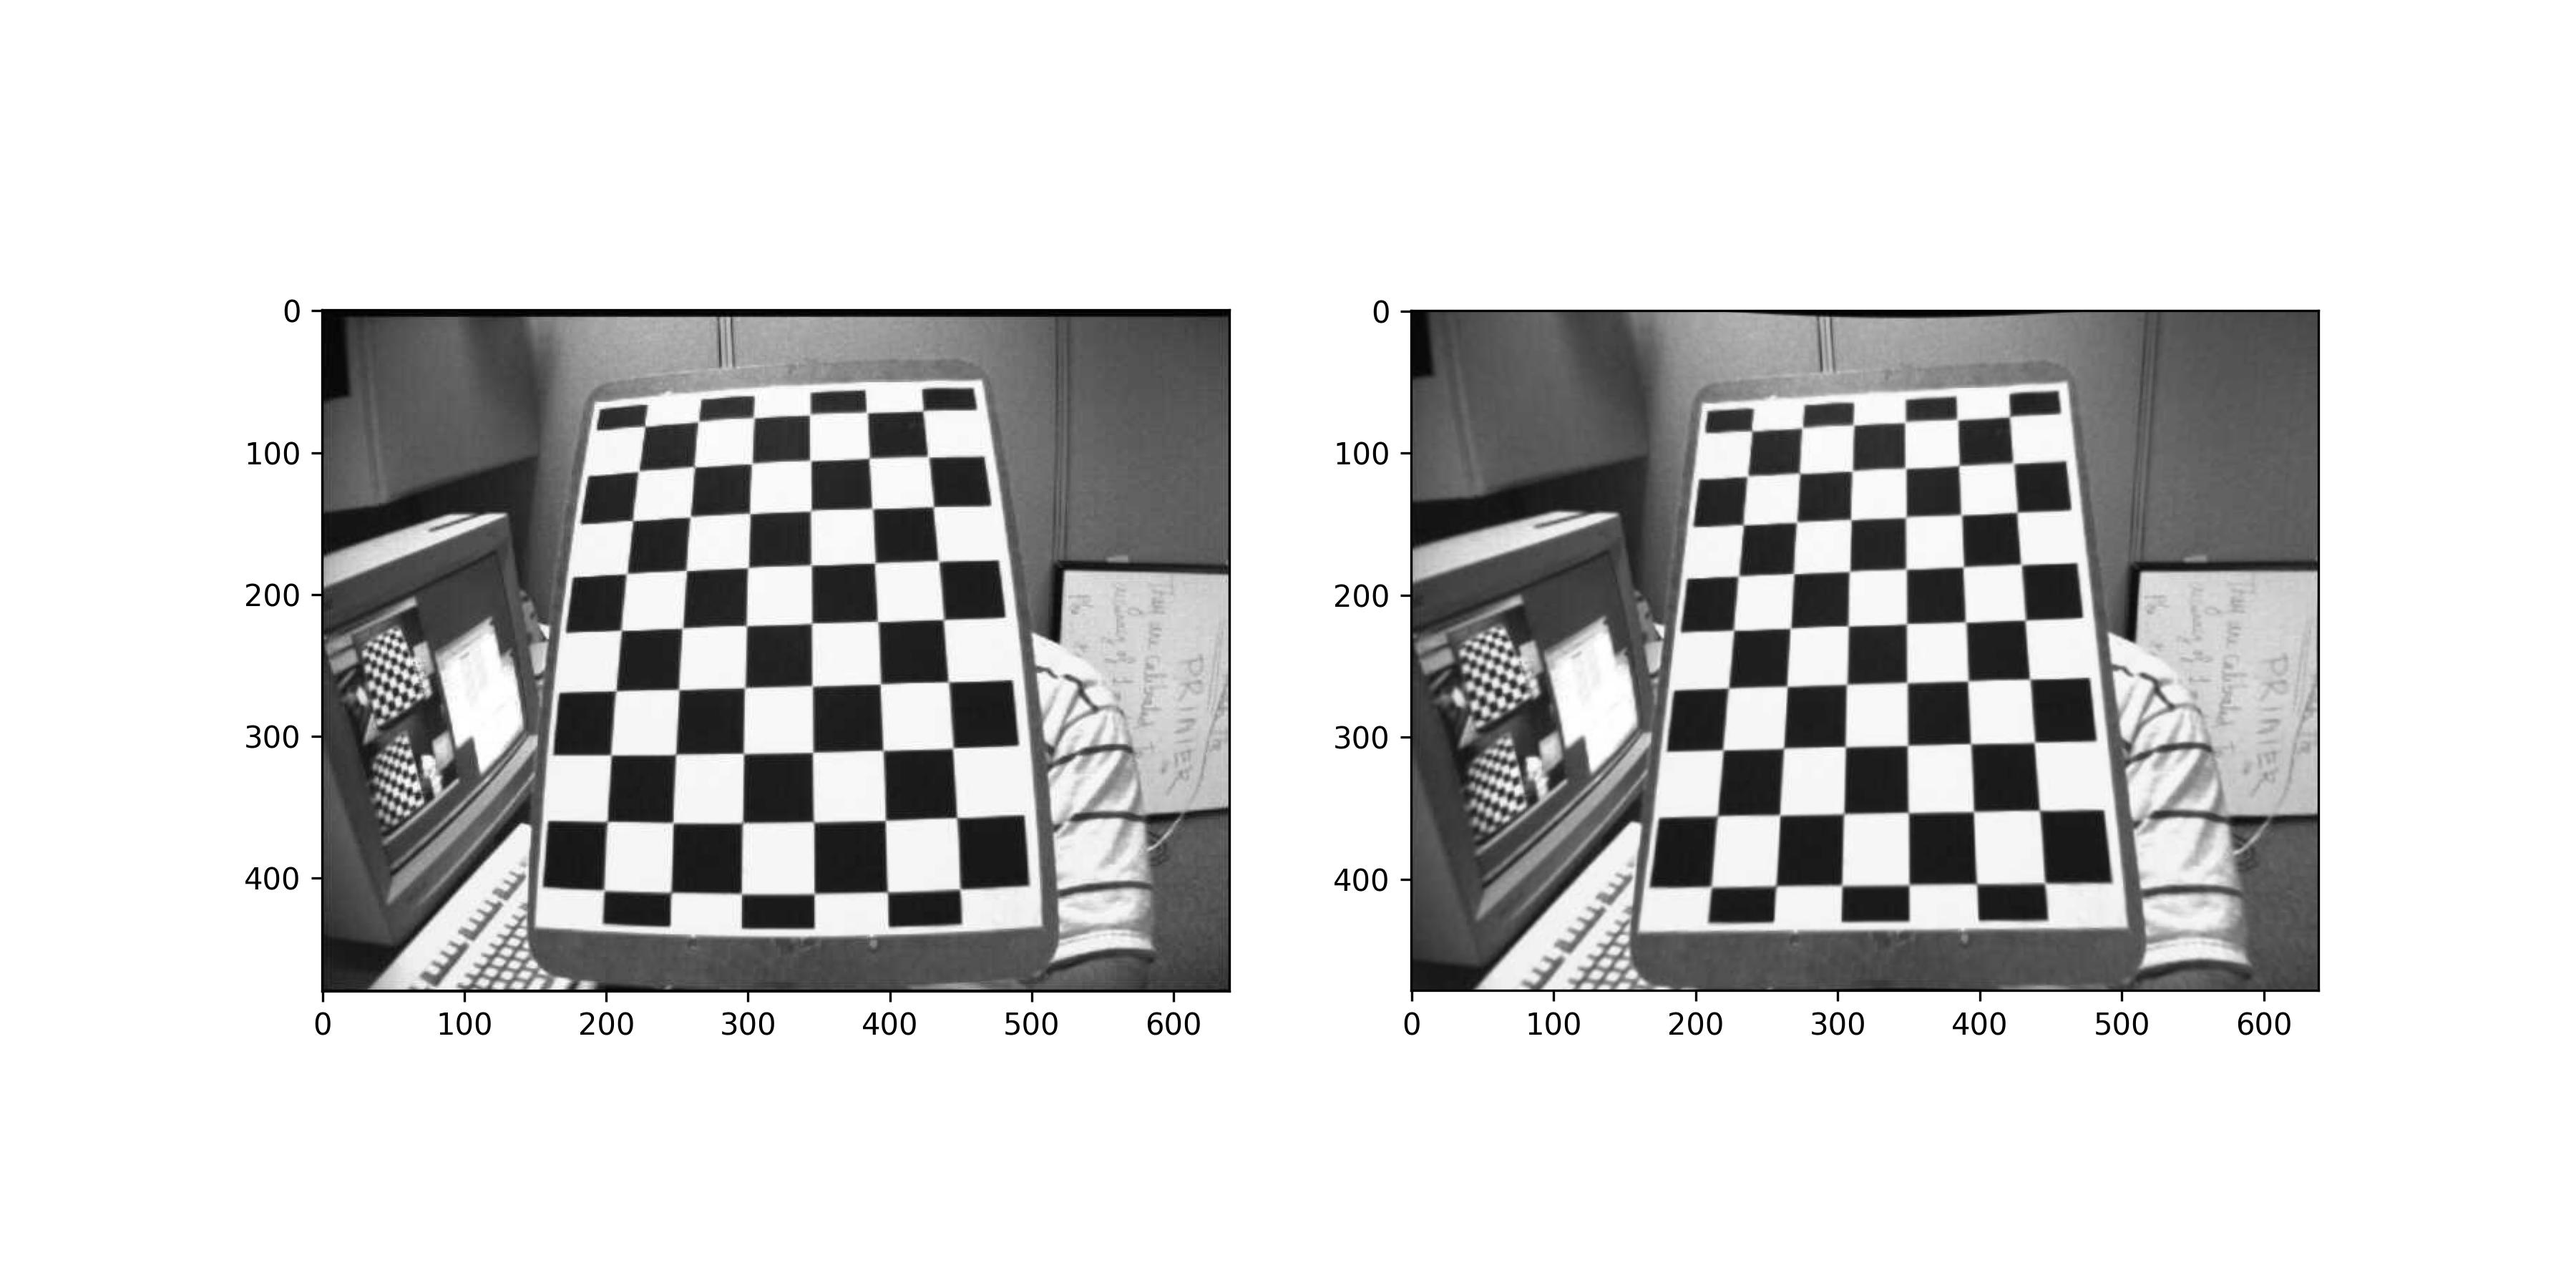
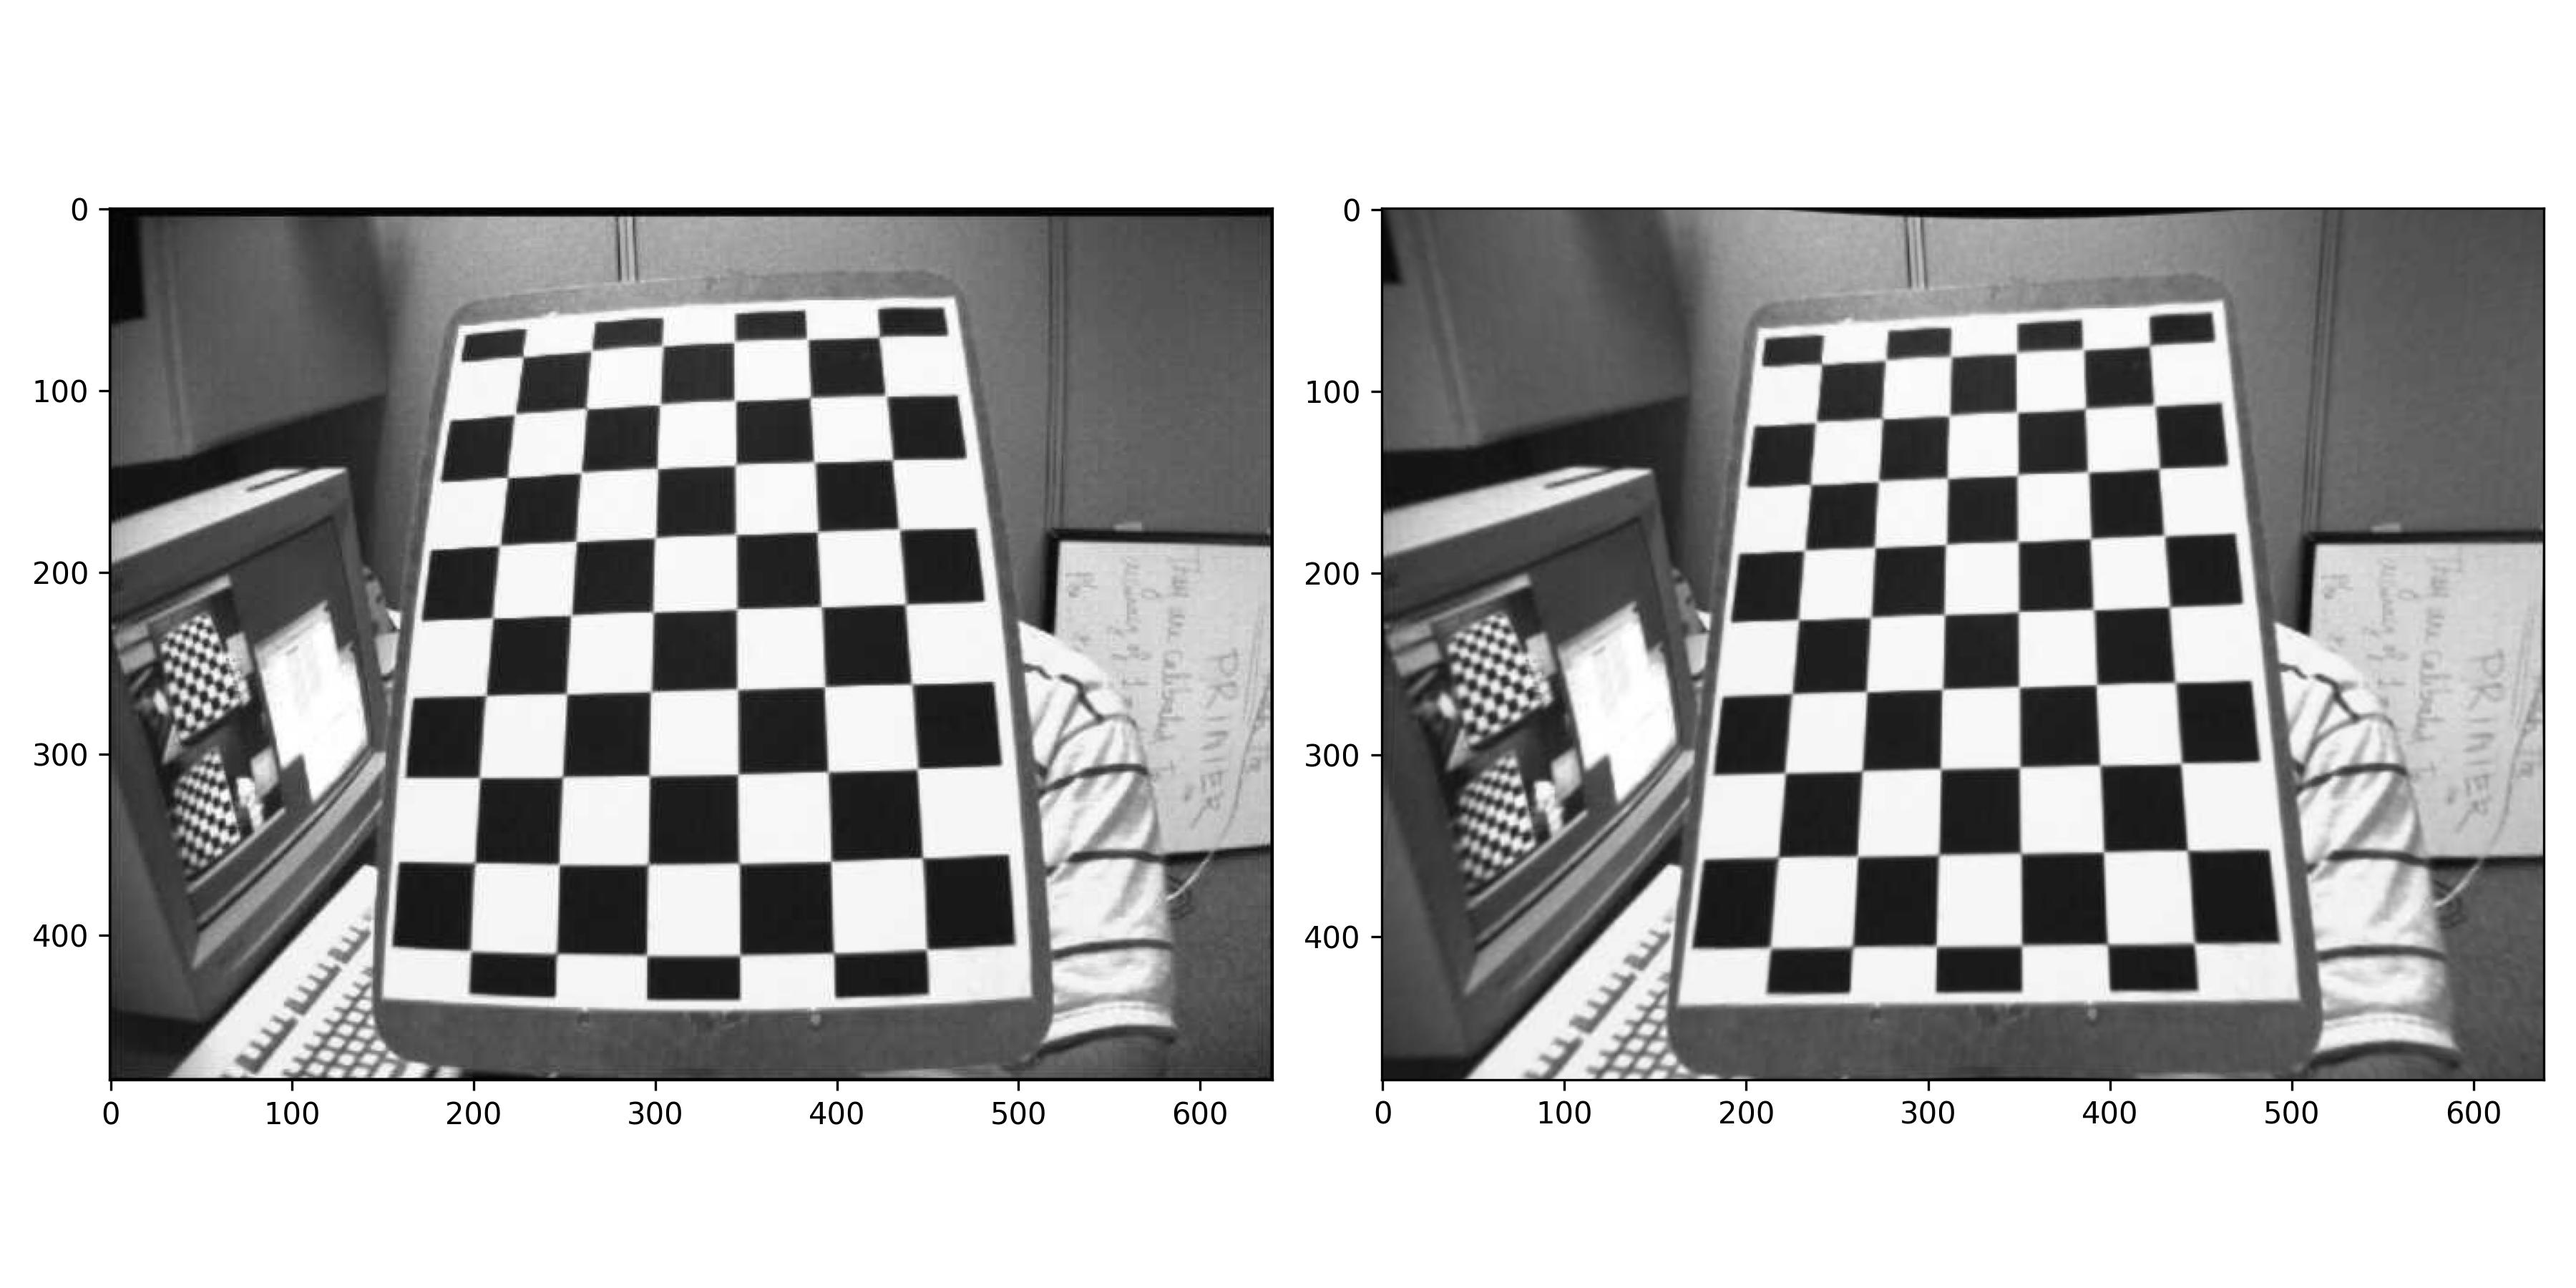
clear

diff --git a/notes/core/camera_callibration/main.py b/notes/core/camera_callibration/main.py
@@ -2,13 +2,11 @@ import mycalibrator as c
 
 
 if __name__ == "__main__":
-    CamCalib = c.CameraCalibrator(PATERN_SIZE=(8,6), calib_dir='./img/calib_/')
-    # CamCalib = c.CameraCalibrator(PATERN_SIZE=(7,5), calib_dir='./img/calib/')
+    CamCalib = c.CameraCalibrator(PATERN_SIZE=(7,5), calib_dir='./img/calib/')
 
     CamCalib.compress_calib_imgs(isResize=0)
 
     CamCalib.do_camera_calibration()
 
-    im1, im2 = CamCalib.do_image_undistortion('./img/test_/left12.jpg', alpha=0)
-    # im1, im2 = CamCalib.do_image_undistortion('./img/test/DSC_2937.JPG', alpha=0)
+    im1, im2 = CamCalib.do_image_undistortion('./img/test/DSC_2937.JPG', alpha=0)
     im_diff = CamCalib.get_diff_image(im1, im2)

diff --git a/notes/core/camera_callibration/test.py b/notes/core/camera_callibration/test.py
@@ -4,6 +4,8 @@ import mycalibrator as c
 if __name__ == "__main__":
     CamCalib = c.CameraCalibrator(PATERN_SIZE=(8,6), calib_dir='./img/calib_/')
 
+    CamCalib.compress_calib_imgs(isResize=0)
+
     CamCalib.do_camera_calibration()
 
     im1, im2 = CamCalib.do_image_undistortion('./img/test_/left12.jpg', alpha=0)

diff --git a/notes/core/camera_callibration/README.md b/notes/core/camera_callibration/README.md
@@ -19,7 +19,8 @@
 
 - [About](#about)
 - [Getting Started](#getting_started)
-- [Usage](#usage)
+- [Tests](#tests)
+- [Result](#result)
 - [Authors](#authors)
 - [Acknowledgments](#acknowledgement)
 
@@ -71,35 +72,10 @@ $$
 
 ## 🏁 Getting Started <a name = "getting_started"></a>
 
-These instructions will get you a copy of the project up and running on your local machine for development and testing purposes. See [deployment](#deployment) for notes on how to deploy the project on a live system.
+To run the main program, we need to provide some chessboard images with variation of distance and angle. The documentation stated that its good to has at least 10 images.
 
-### Prerequisites
 
-What things you need to install the software and how to install them.
-
-```
-Give examples
-```
-
-### Installing
-
-A step by step series of examples that tell you how to get a development env running.
-
-Say what the step will be
-
-```
-Give the example
-```
-
-And repeat
-
-```
-until finished
-```
-
-End with an example of getting some data out of the system or using it for a little demo.
-
-## 🔧 Running the tests <a name = "tests"></a>
+## 🔧 Tests <a name = "tests"></a>
 
 Test program architecture
 ``` py
@@ -248,16 +224,157 @@ Re-projection error: 0.025770447672861817
 *) The closer the re-projection error is to zero, the more accurate the parameters we found are.
 ```
 
-## 🎈 Usage <a name="usage"></a>
 
-Add notes about how to use the system.
+## 🎈 Result <a name="result"></a>
+
+Calibration program architecture
+``` py
+camera_calibration/:
+    data/:
+        calib_properties_.npz
+    img/:
+        calib/:
+            <calibration_images.jpg>
+        result/:
+            <result_images.jpg>
+        test/:
+            <test_images.jpg>
+    main.py
+```
+
+[`im_found.jpg`](./img/result/im_found.jpg)\
+<img width="49%" src="./img/result/im_found.jpg"></img>\
+**Fig x.** Distorted image with pattern drawn on it
+
+[`im_compare.jpg`](./img/result/im_compare.jpg)\
+<img width="100%" src="./img/result/im_compare.jpg"></img>\
+**Fig x.** Comparison between (a) distorted image and (b) undistorted image
+
+[`im_absdiff.jpg`](./img/result/im_absdiff.jpg)\
+<img width="49%" src="./img/result/im_absdiff.jpg"></img>\
+**Fig x.** Absolute difference between distorted and undistorted image
+
+
+Below is the summary of the result of calibration
+``` py
+========== CALIBRATION PROPERTIES ==========
+
+Ret: 2.2273378247359656
+
+Camera matrix:
+Type: <class 'numpy.ndarray'>
+Shape: (3, 3)
+[[4.79178739e+03 0.00000000e+00 2.45773350e+03]
+ [0.00000000e+00 4.79063518e+03 1.67017424e+03]
+ [0.00000000e+00 0.00000000e+00 1.00000000e+00]]
+
+Distortion coefficients:
+Type: <class 'numpy.ndarray'>
+Shape: (1, 5)
+[[-1.74972915e-01  2.16815563e+00 -2.44442227e-03 -3.68081560e-04
+  -1.21993025e+01]]
+
+Rotation vectors:
+Type: <class 'numpy.ndarray'>
+Shape: (10, 3, 1)
+[[[ 1.91184032e-02]
+  [ 4.16063283e-01]
+  [-2.00889733e-04]]
+
+ [[ 3.71437541e-03]
+  [-4.19413375e-01]
+  [-4.14966762e-02]]
+
+ [[ 5.28309027e-01]
+  [-2.43449955e-02]
+  [ 7.25295006e-03]]
+
+ [[-3.48692256e-01]
+  [-3.74968342e-01]
+  [-4.00435927e-01]]
+
+ [[ 4.71750087e-01]
+  [-3.37848908e-01]
+  [ 2.20689011e-01]]
+
+ [[-5.78758381e-02]
+  [ 2.45516732e-02]
+  [ 9.93441497e-03]]
+
+ [[-5.53075533e-02]
+  [-3.59019561e-01]
+  [-1.79653267e-02]]
+
+ [[ 3.44079645e-01]
+  [ 3.34715088e-02]
+  [-4.15244044e-03]]
+
+ [[ 3.58487837e-01]
+  [ 1.68458391e-01]
+  [-2.68087562e-01]]
+
+ [[-4.37596290e-01]
+  [-3.40124988e-01]
+  [-4.16784597e-01]]]
+
+Translation vectors:
+Type: <class 'numpy.ndarray'>
+Shape: (10, 3, 1)
+[[[-2.84720239]
+  [-1.03240987]
+  [25.82907615]]
+
+ [[-3.12217721]
+  [-1.205349  ]
+  [24.13282751]]
+
+ [[-2.86115246]
+  [-0.89573268]
+  [24.873983  ]]
+
+ [[-4.13335084]
+  [ 0.66106401]
+  [24.82131959]]
+
+ [[-2.67022109]
+  [-1.98506557]
+  [24.59988559]]
+
+ [[-2.73465667]
+  [-2.64394261]
+  [12.72419144]]
+
+ [[-2.44226156]
+  [-2.02571237]
+  [10.98798656]]
+
+ [[-2.80315449]
+  [-2.00208526]
+  [11.39020653]]
+
+ [[-3.5323531 ]
+  [-0.58039975]
+  [12.80553938]]
+
+ [[-3.99942997]
+  [-0.39512997]
+  [13.75880625]]]
+
+*) `rvecs` and `tvecs` contains (3x1) vector for every image.
+
+Re-projection error: 0.3558704252807704
+*) The closer the re-projection error is to zero, the more accurate the parameters we found are.
+
+======= (END) CALIBRATION PROPERTIES =======
+```
 
 ## ✍ Authors <a name = "authors"></a>
 
-- [@mahaamesha](https://github.com/mahaamesha) - Idea & Initial work
+- [@mahaamesha](https://github.com/mahaamesha) - Modified program
 
 ## 🎉 Acknowledgements <a name = "acknowledgement"></a>
 
-- Hat tip to anyone whose code was used
-### Inspiration
+In this topic, I create more modular program for camera calibration using class.
+
 ### References
+- [OpenCV Documentation: Camera Calibration](https://docs.opencv.org/4.x/dc/dbb/tutorial_py_calibration.html)
